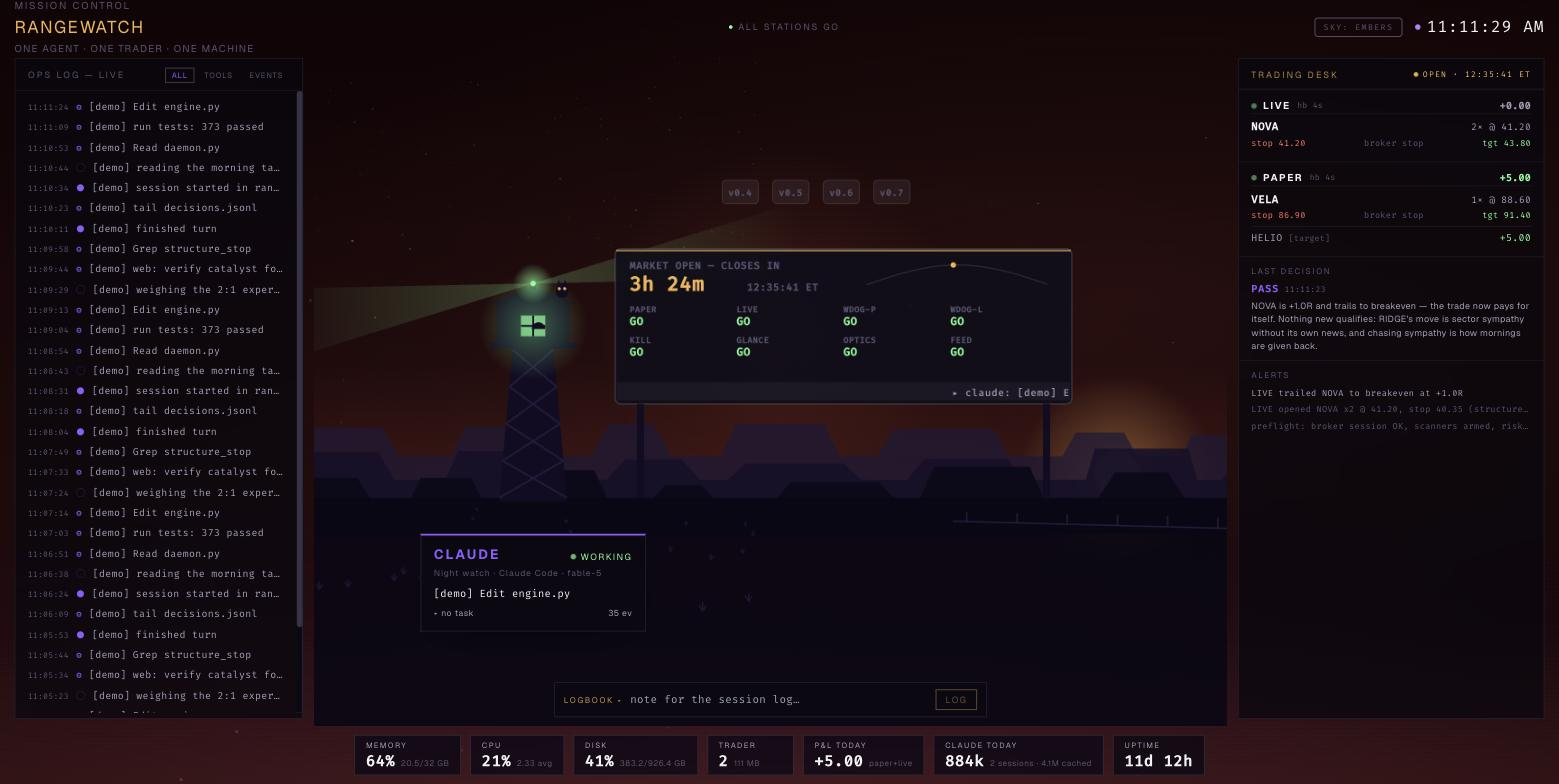
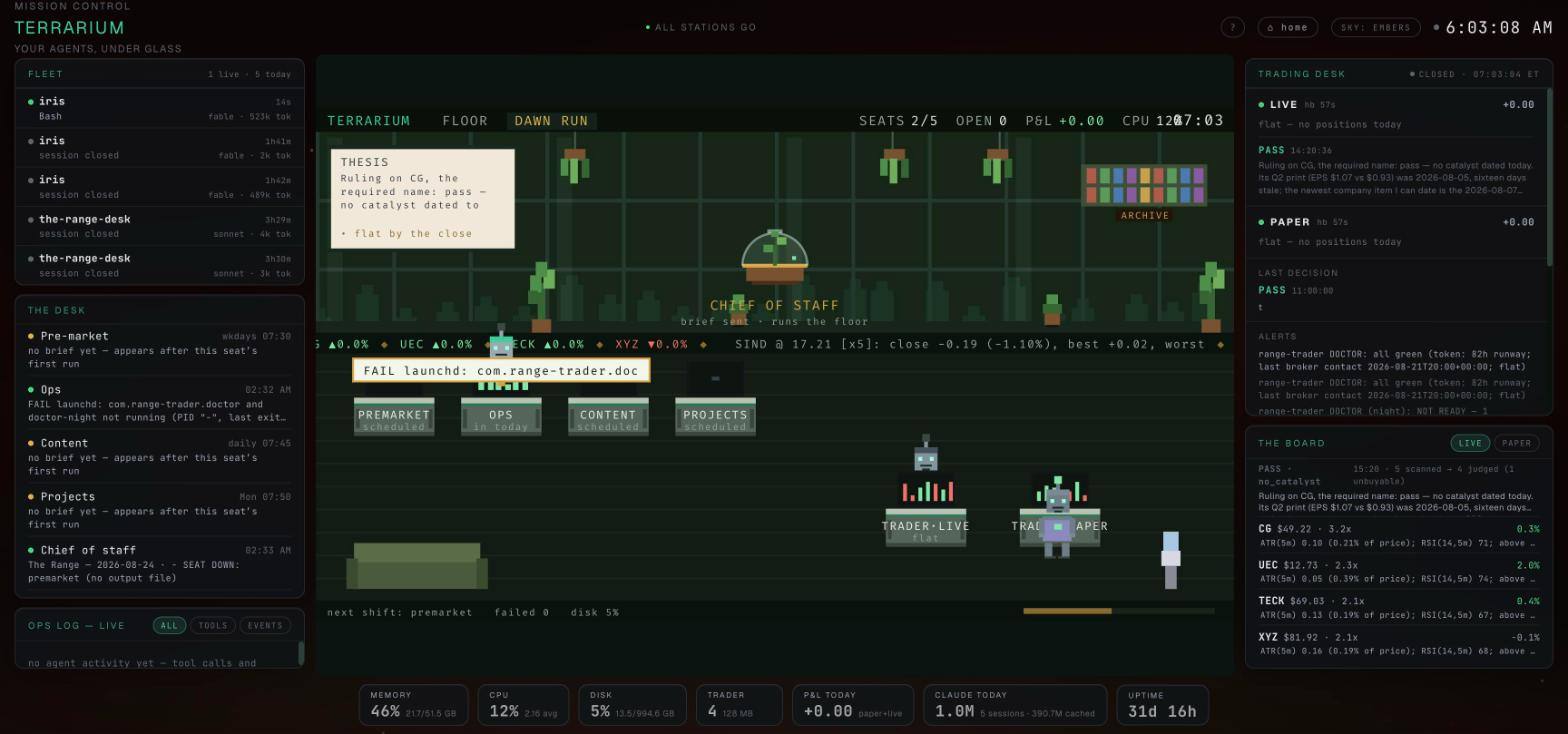
Purge remaining Rangewatch artifacts: media, package name, docs
- docs/media: old demo-day GIF, rangewatch.jpg, theme-mesa.jpg removed;
  fresh robot-era captures for all three themes (greenhouse, observatory,
  embers).
- package name, AGENTS docs, demo/config comments now Terrarium; CHANGELOG
  gains a v0.8.0 rename entry. Only deliberate legacy-compat mentions
  (RANGEWATCH_* env fallbacks) remain.

diff --git a/backend/config.py b/backend/config.py
@@ -18,7 +18,7 @@ ET = ZoneInfo("America/New_York")
 # ---------------------------------------------------------------------------
 
 # Demo mode: every collector is swapped for a scripted synthetic day
-# (backend/demo.py) — zero config, zero personal data, full MESA.
+# (backend/demo.py) — zero config, zero personal data, the full glasshouse.
 DEMO = (os.getenv("TERRARIUM_DEMO") or os.getenv("RANGEWATCH_DEMO", "")) == "1"
 
 RANGE_TRADER_DIR   = Path(os.getenv("RANGE_TRADER_DIR", str(Path.home() / ".range-trader")))

diff --git a/backend/demo.py b/backend/demo.py
@@ -1,5 +1,5 @@
 """
-Demo mode — a synthetic trading day, so a visitor sees the full MESA in
+Demo mode — a synthetic trading day, so a visitor sees the full glasshouse in
 five minutes with zero configuration and zero personal data.
 
 TERRARIUM_DEMO=1 swaps every collector for the scripted versions below.

diff --git a/README.md b/README.md
@@ -8,11 +8,6 @@
 books flat before the open, a PASS ruling fresh off the engine, and the
 ops log streaming the very session that took this screenshot.*
 
-![A compressed trading day in demo mode](docs/media/rangewatch-demo-day.gif)
-
-*Demo mode compresses a full trading day into five minutes — a fictional
-tape, labeled `[demo]` on every line.*
-
 ## What am I looking at?
 
 Terrarium is a local-first mission control for the AI agents running on one
@@ -46,7 +41,7 @@ one with `?theme=greenhouse|observatory|embers`, preview any hour with
 
 | GREENHOUSE *(flagship)* | OBSERVATORY | EMBERS |
 |---|---|---|
-| ![GREENHOUSE](docs/media/theme-mesa.jpg) | ![OBSERVATORY](docs/media/theme-observatory.jpg) | ![EMBERS](docs/media/theme-embers.jpg) |
+| ![GREENHOUSE](docs/media/theme-greenhouse.jpg) | ![OBSERVATORY](docs/media/theme-observatory.jpg) | ![EMBERS](docs/media/theme-embers.jpg) |
 | Under glass — green & gold | High-altitude steel & cyan | Fire watch — copper & coal |
 
 A local-first dashboard that watches the three things that matter on the box:

diff --git a/CHANGELOG.md b/CHANGELOG.md
@@ -1,5 +1,16 @@
 # Changelog
 
+## v0.8.0 - 2026-08-24 — TERRARIUM
+
+- Renamed RANGEWATCH -> TERRARIUM ("your agents, under glass"); old
+  RANGEWATCH_* env names still honored, saved theme prefs migrate.
+- Floor scene rebuilt as a pixel glasshouse: glass back wall living the
+  market day, hanging planters, fireflies at night; workers are now
+  little AI robots; the chief of staff is a glass terrarium dome.
+- Rails redesigned on a shared cool-dark design system (zinc + emerald);
+  first-visit intro overlay; readable empty states; no more mid-word
+  truncation.
+
 ## v0.7.0 - 2026-07-26 — RANGEWATCH
 
 First public cut under this name. One agent, one trader, one machine:

diff --git a/AGENTS.md b/AGENTS.md
@@ -1,6 +1,6 @@
 # Project Context
 
-`rangewatch` (local path: `mission-control-dashboard`) is the operator UI for a
+`terrarium` (local path: `mission-control-dashboard`) is the operator UI for a
 single-agent setup: **Claude Code** (the only agent), the **range-trader**
 autonomous trading stack, and the machine they run on. Single-agent is a design
 decision — do not add polling for services that do not exist.

diff --git a/backend/AGENTS.md b/backend/AGENTS.md
@@ -1,6 +1,6 @@
 # Backend Context
 
-FastAPI backend for RANGEWATCH on 127.0.0.1:8000. Five modules; keep it small.
+FastAPI backend for TERRARIUM on 127.0.0.1:8000. Five modules; keep it small.
 
 - `collectors.py` — all data gathering, read-only and best-effort: a missing
   file is a status, never an exception
